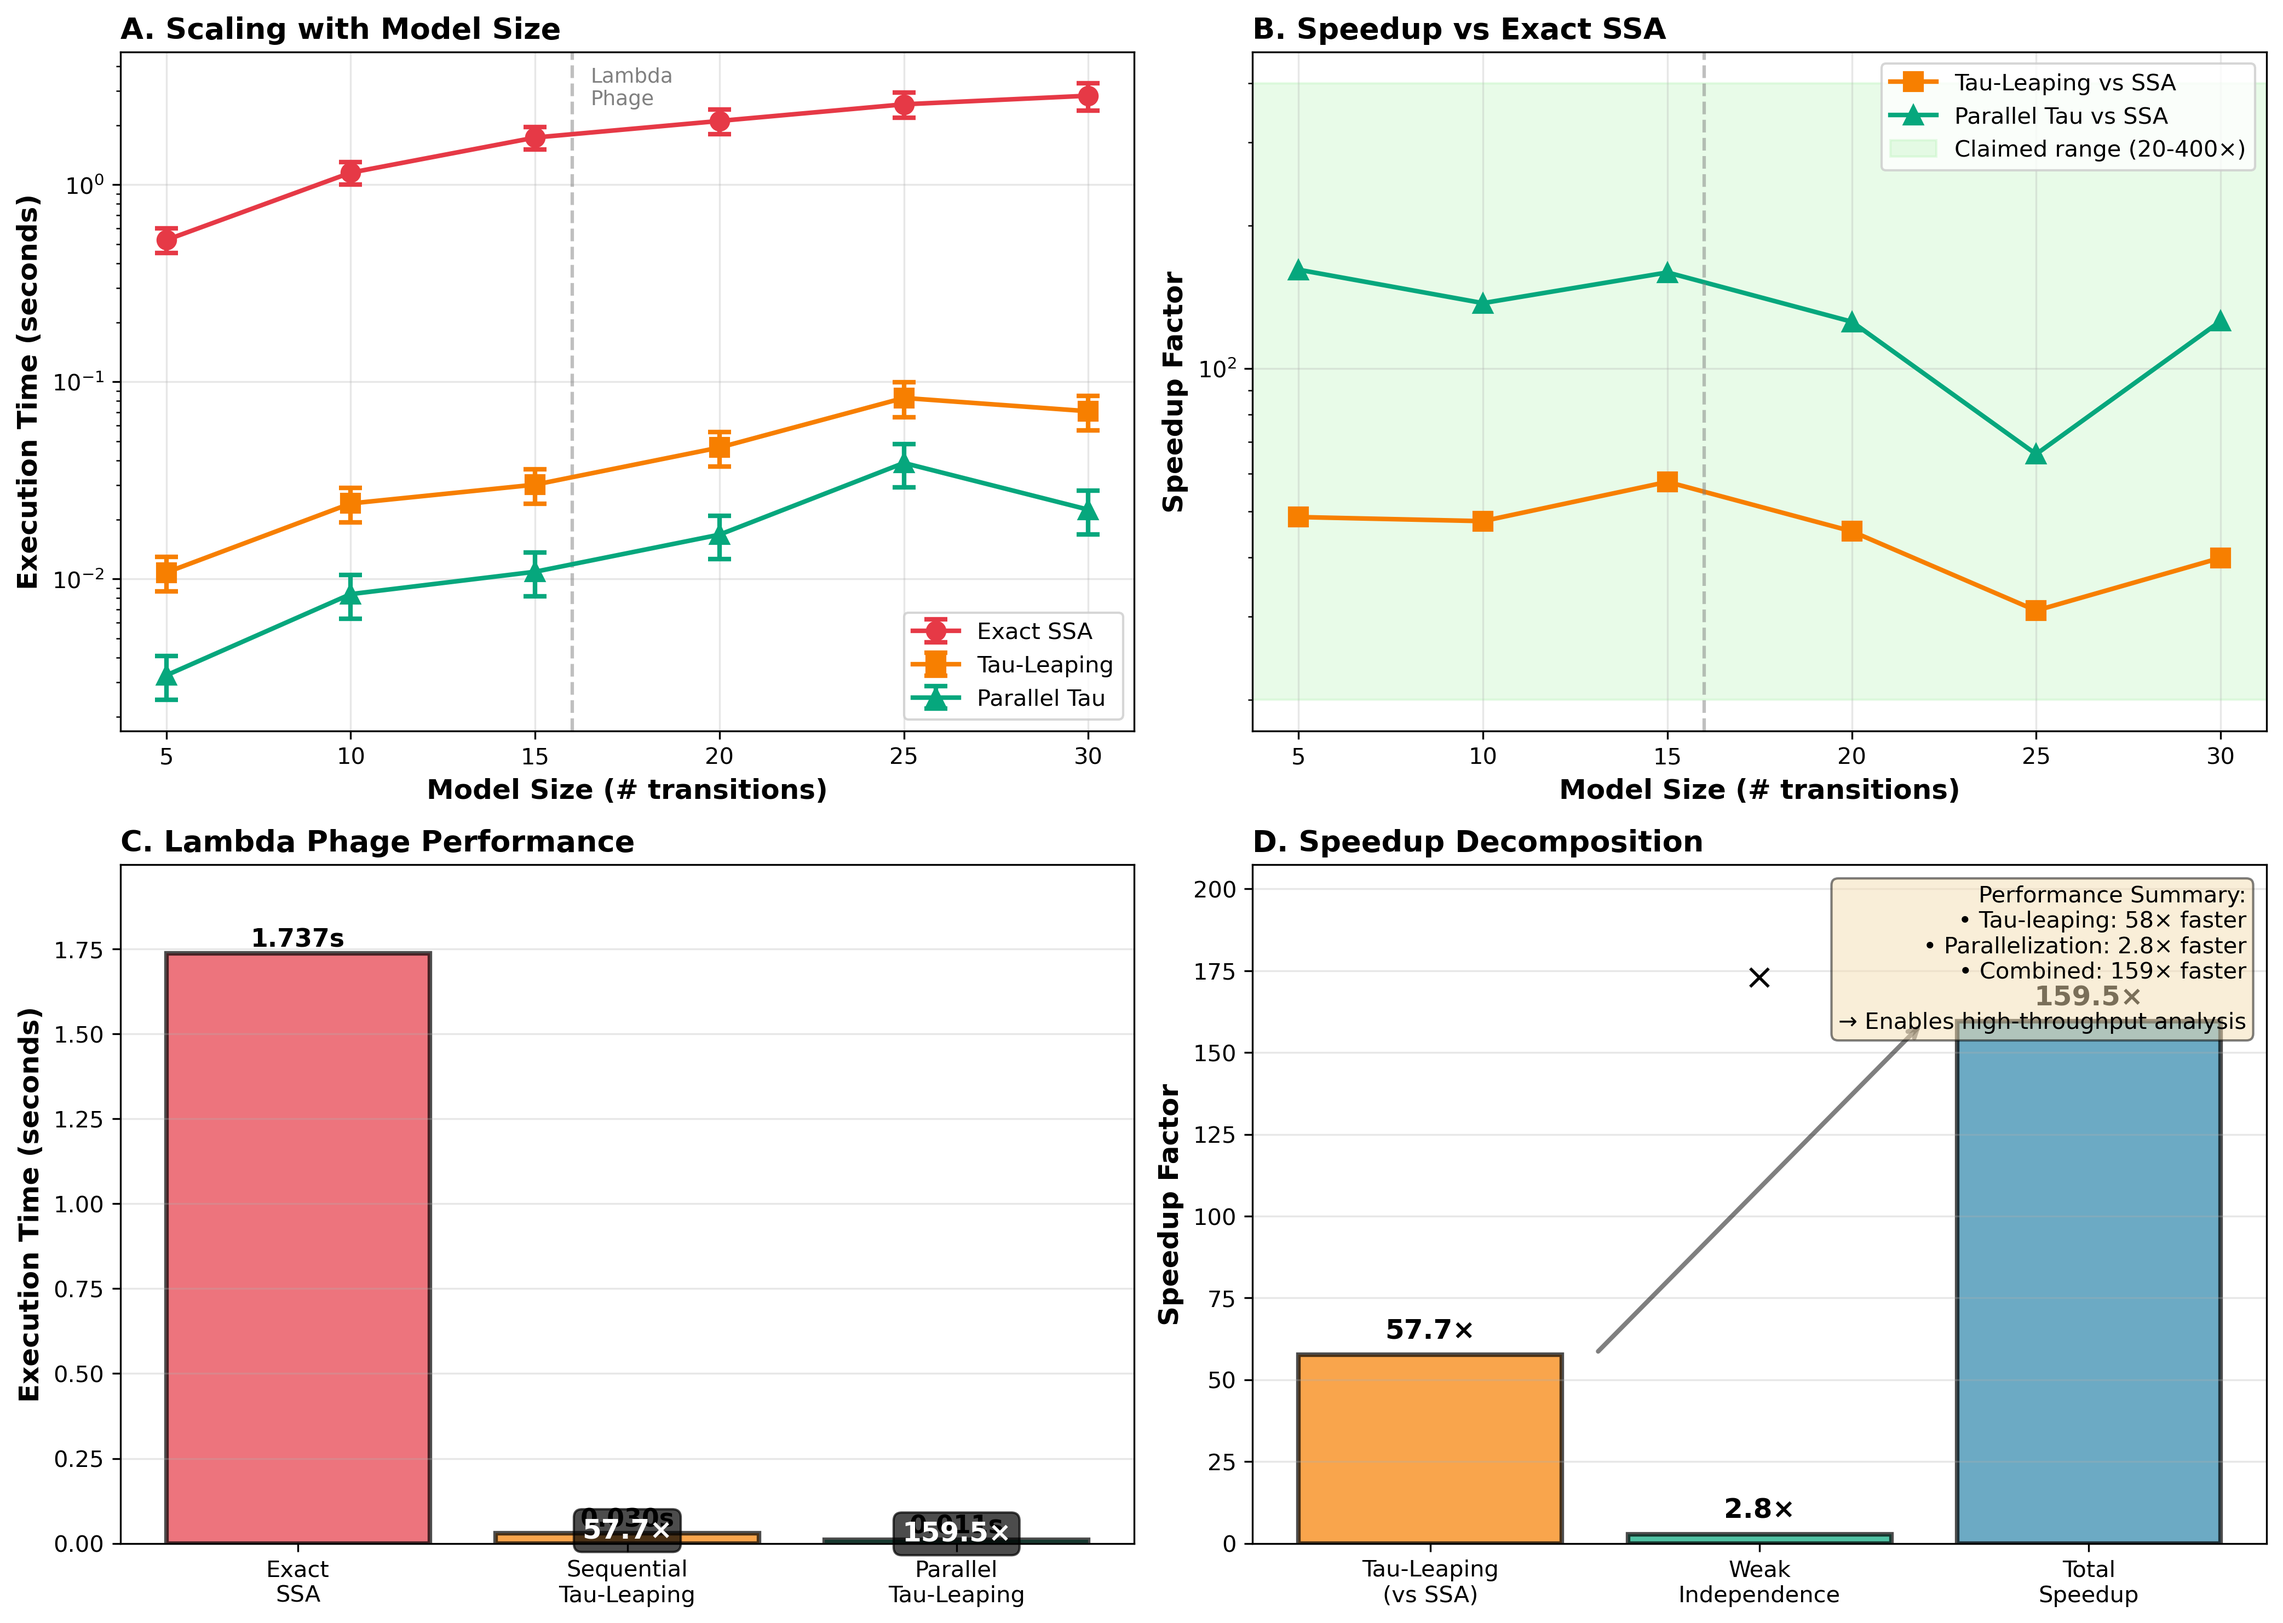
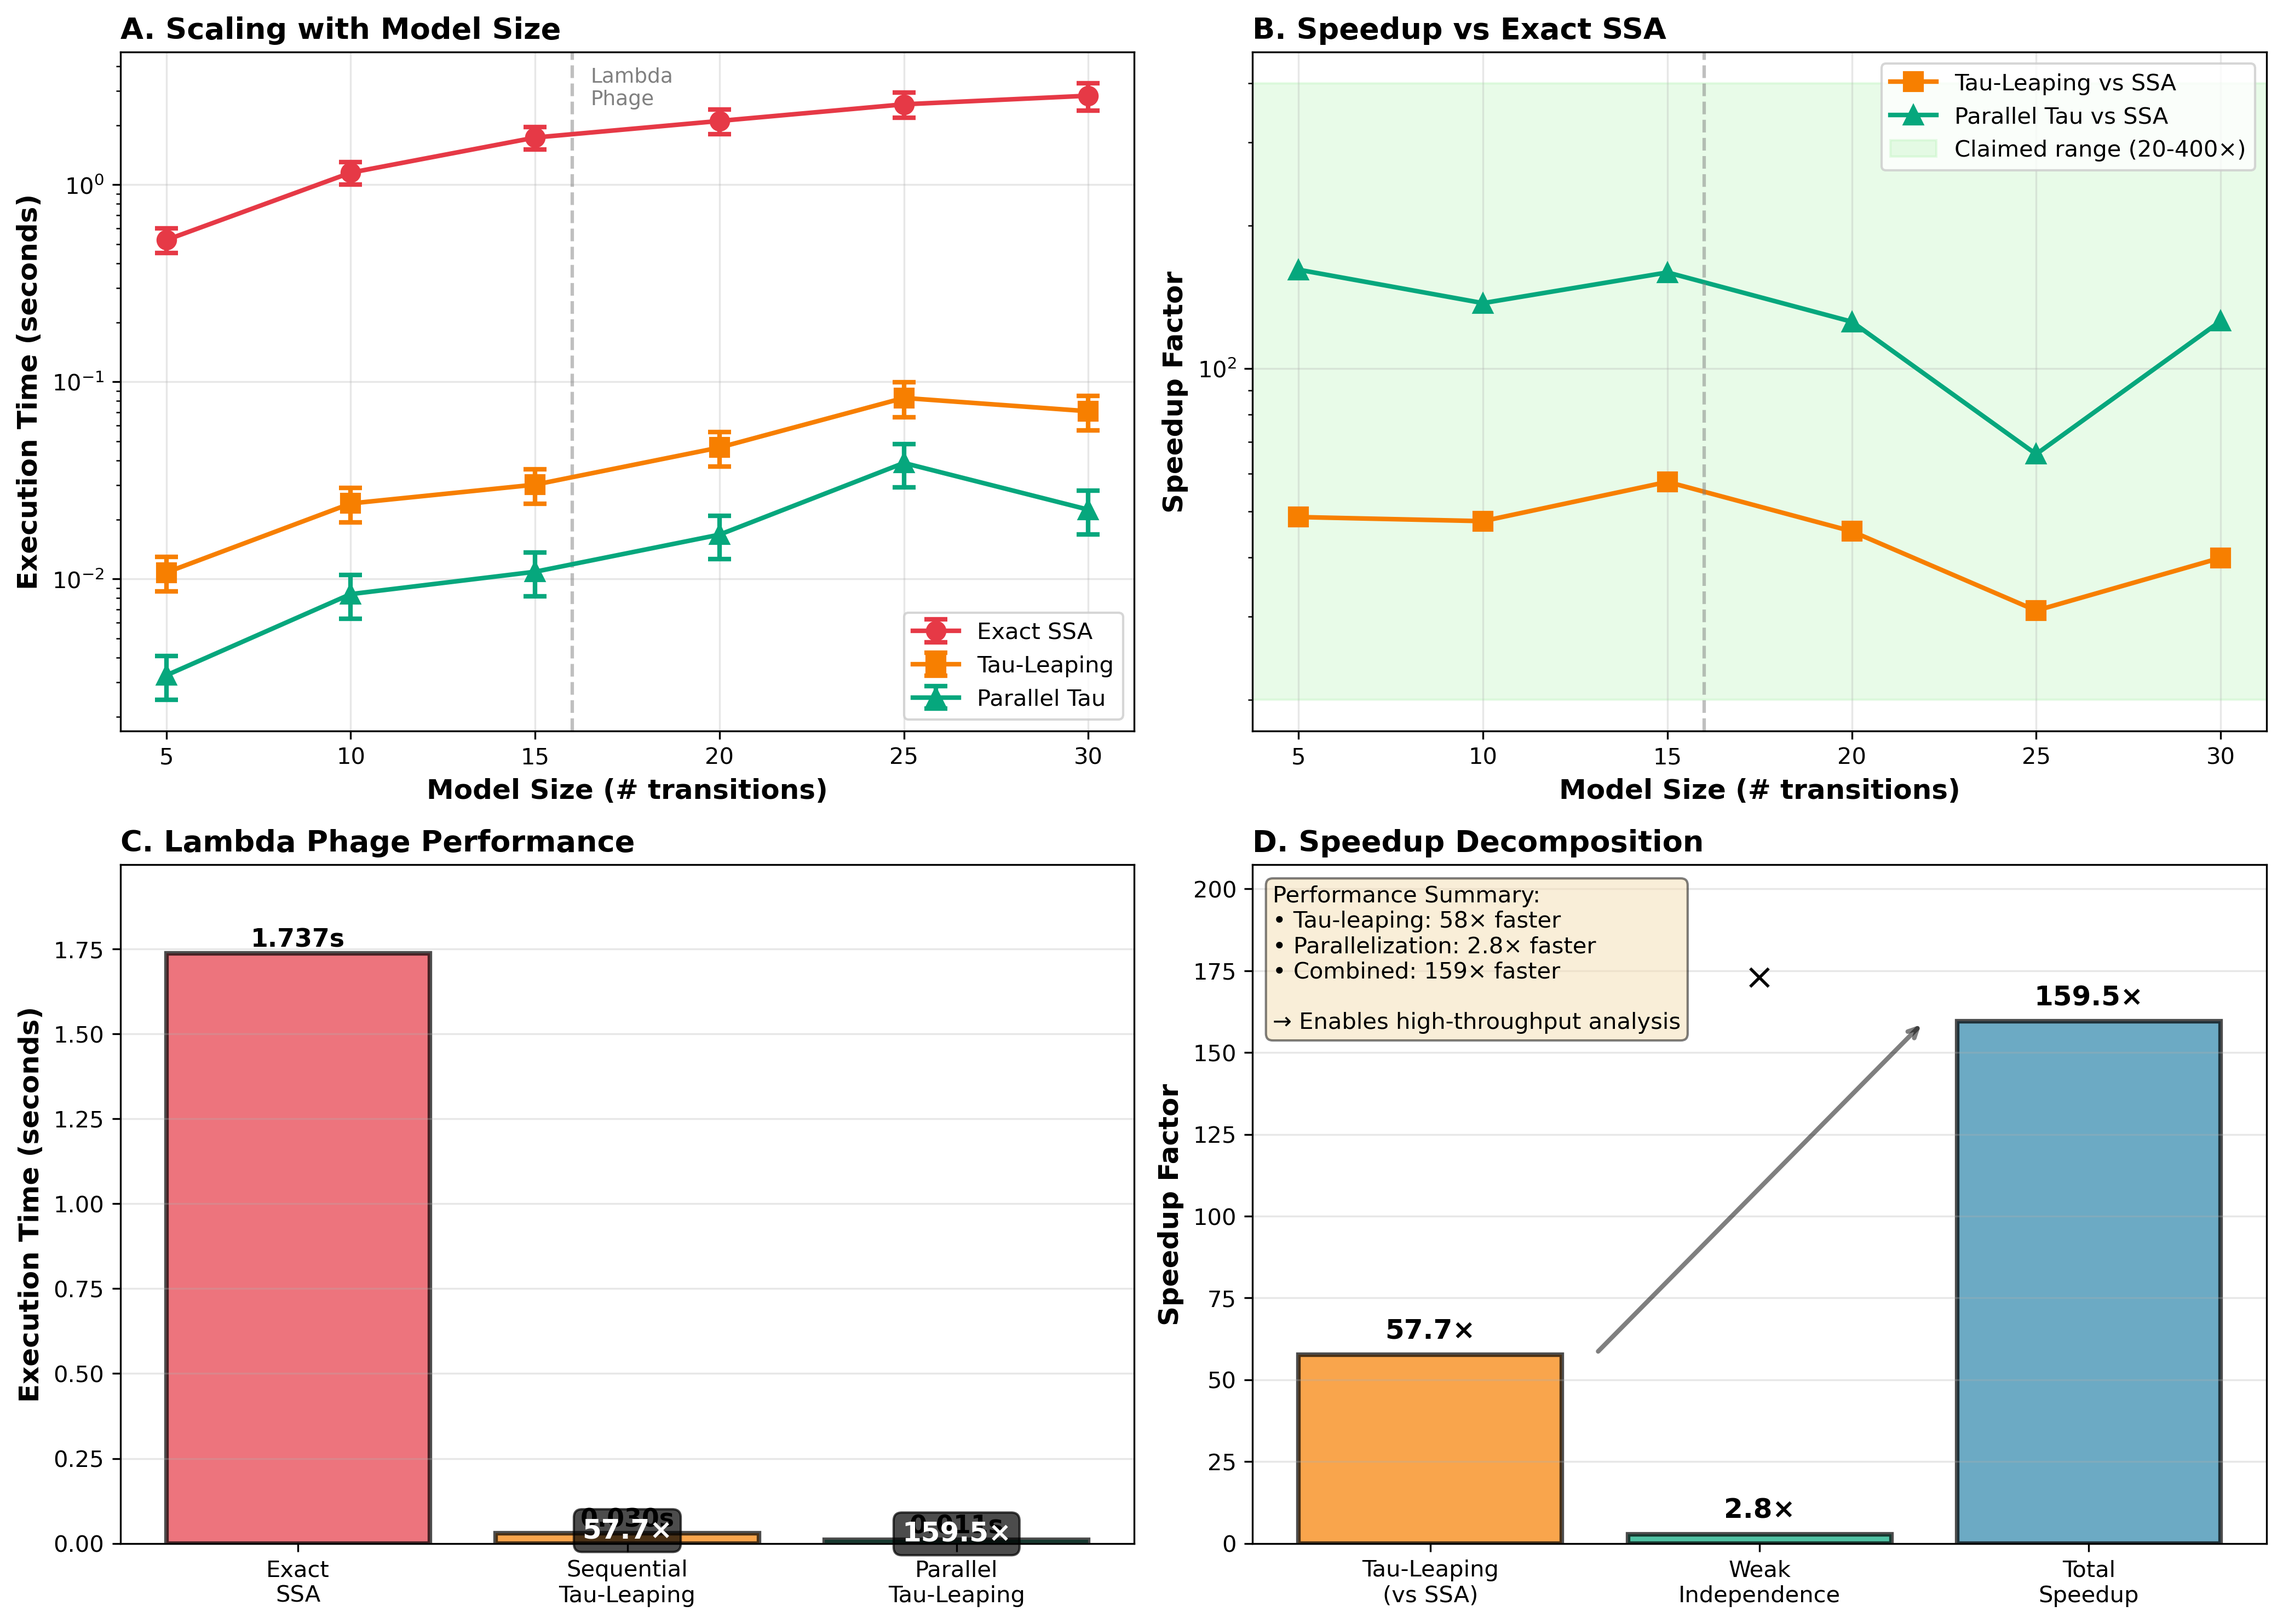
Move legend to left in Figure 6 speedup decomposition panel
- Changed summary box from right (0.98) to left (0.02) alignment
- Improved readability of Panel D in performance benchmarks figure
- Regenerated figure6_performance_benchmarks.png with updated layout

Changed region(s): [[0.7796, 0.5277, 0.9978, 0.6518], [0.5301, 0.5277, 0.7484, 0.6518]]

diff --git a/workspace/projects/Biochemical-Examples/22_Lambda_Phage_Switch/experiments/run_performance_benchmarks.py b/workspace/projects/Biochemical-Examples/22_Lambda_Phage_Switch/experiments/run_performance_benchmarks.py
@@ -242,8 +242,8 @@ def plot_performance_results(results, lambda_stats, output_path):
         '',
         '→ Enables high-throughput analysis'
     ])
-    ax.text(0.98, 0.97, textstr, transform=ax.transAxes, fontsize=10,
-           verticalalignment='top', horizontalalignment='right',
+    ax.text(0.02, 0.97, textstr, transform=ax.transAxes, fontsize=10,
+           verticalalignment='top', horizontalalignment='left',
            bbox=dict(boxstyle='round', facecolor='wheat', alpha=0.5))
     
     plt.tight_layout()
